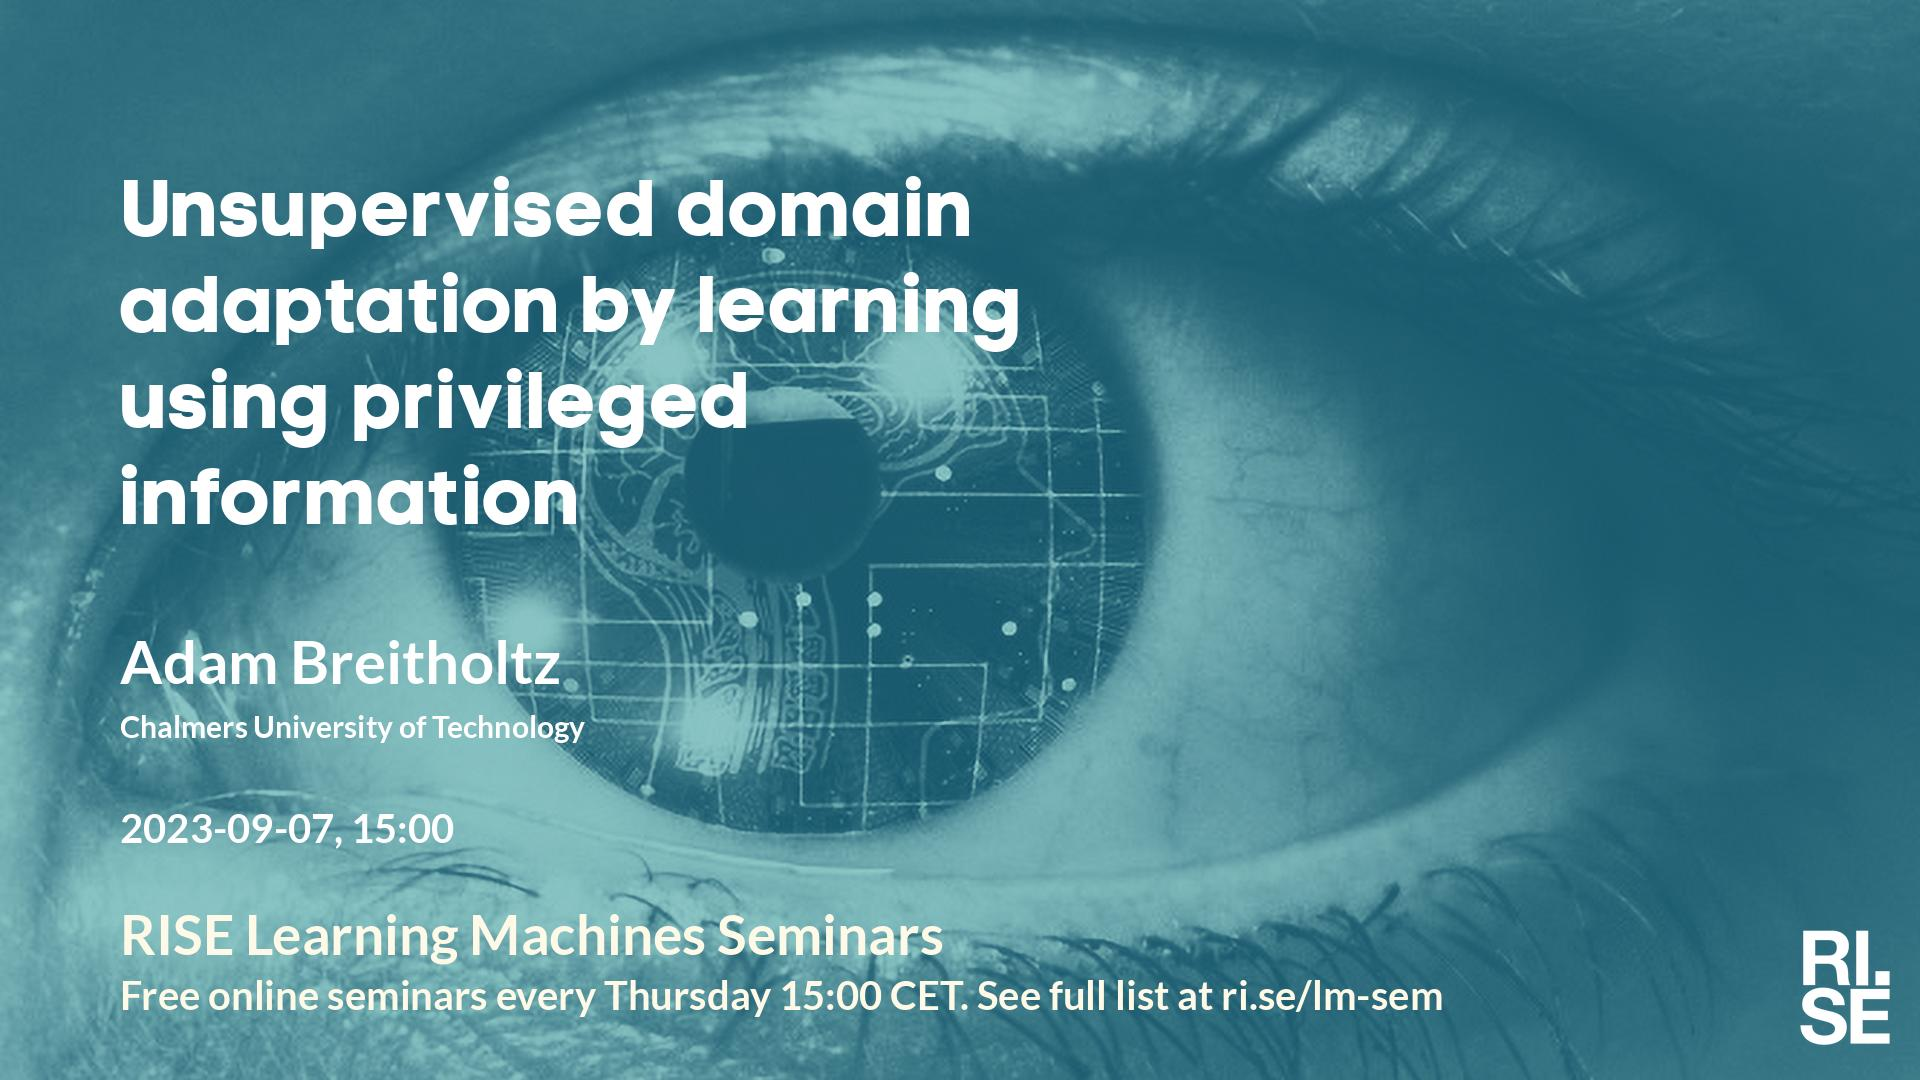
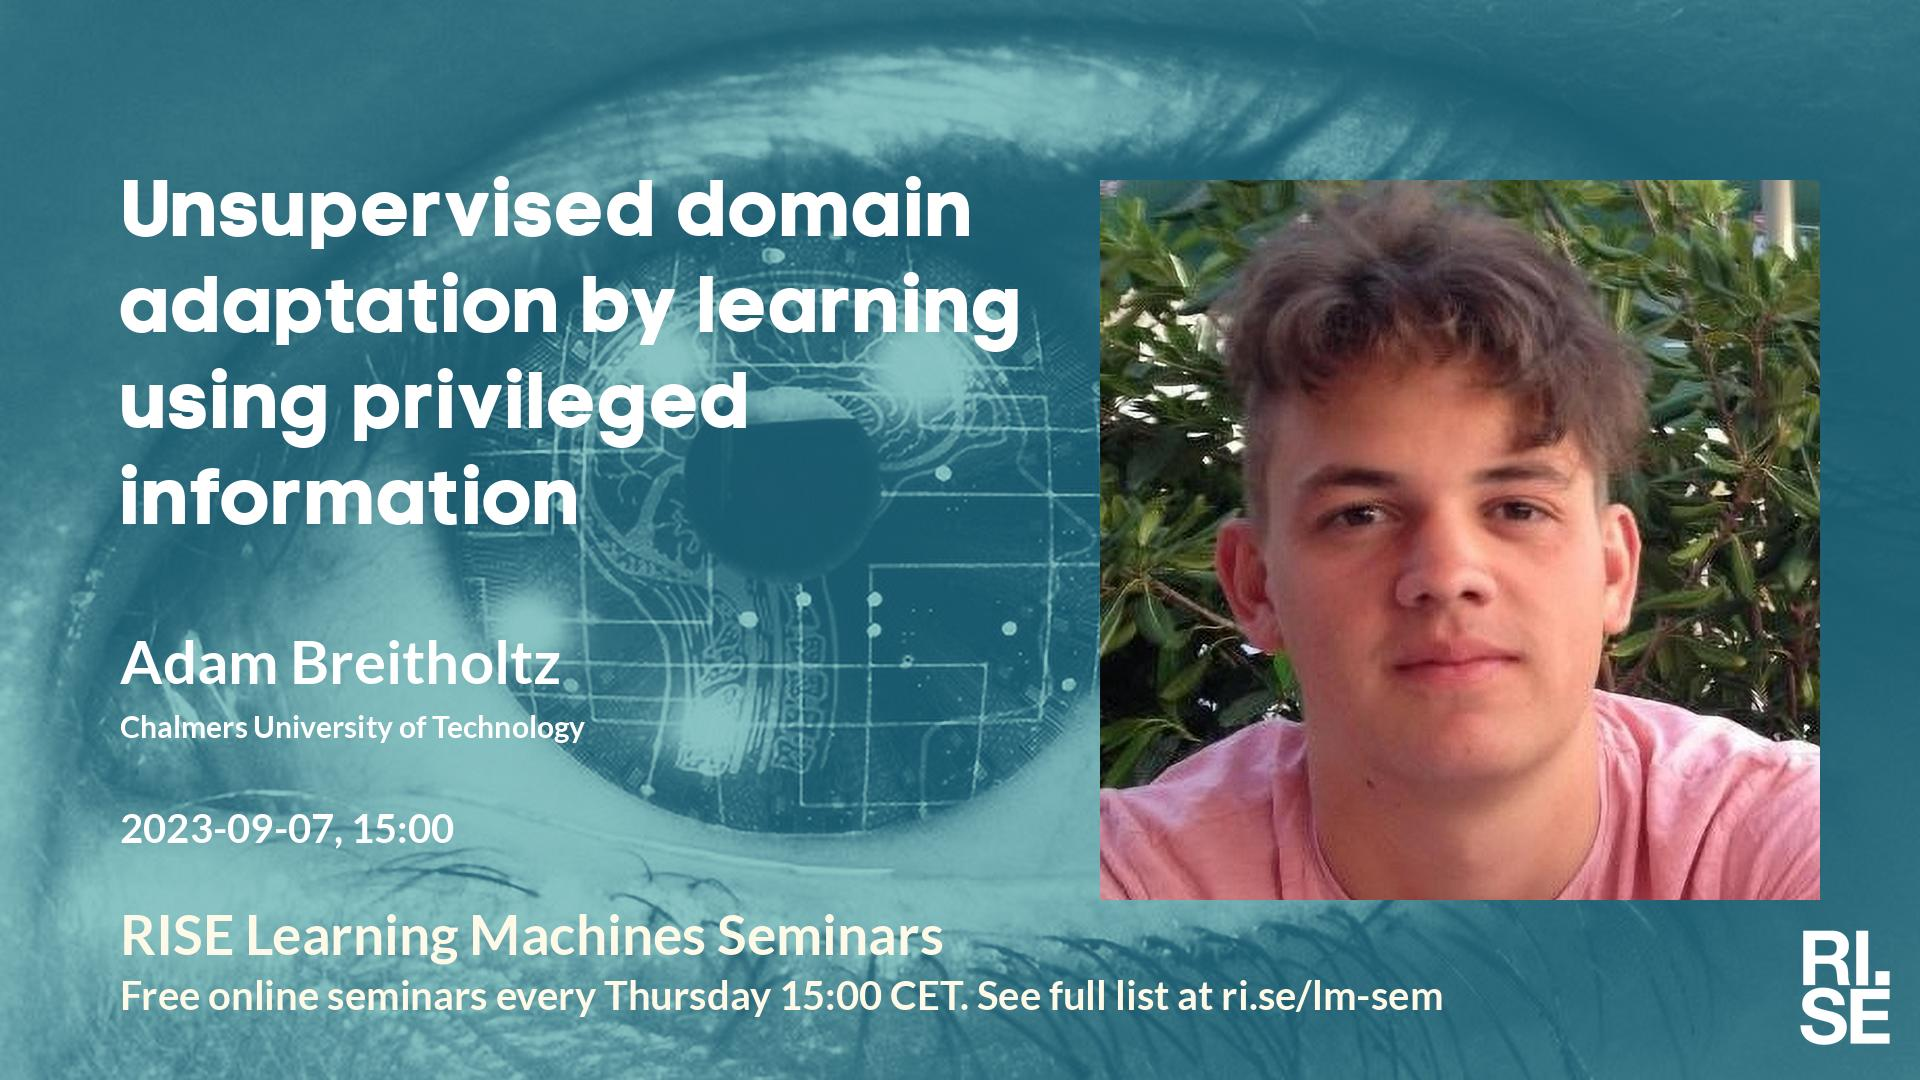
Updated plan on web site.

Changed region(s): [[0.5625, 0.1528, 0.9688, 0.8556]]

diff --git a/lm/index.md b/lm/index.md
@@ -5,11 +5,11 @@ metatags: "<meta name=\"robots\" content=\"noindex,nofollow\" />"
 <style type="text/css" scoped>
 td, th {border: 1px solid #ccc; padding: 0.6em;}
 table {border-collapse: collapse;}
-</style># Learning Machines Plan 2023-09-22
+</style># Learning Machines Plan 2023-09-23
 
 | date | speaker                                   | photo | shareable | meeting backdrop | youtube thumbnail | <a title="Speaker, Title, Abstract, Bio, Photo. Strikethrough means we don't have it yet.">comment</a>        |
 | ---- | ----------------------------------------- | ----- | ----- | ----- | ----- | -------------- |
-|  2023-09-07  |  [Adam Breitholtz, Chalmers University of Technology](2023-09-07.md)  |    |  [social media ](social-media-adam-breitholtz.jpg)  |  [meeting backdrop ](meeting-backdrop-adam-breitholtz.jpg)  |  [youtube thumbnail ](youtube-thumbnail-adam-breitholtz.jpg)  |  STAB~~P~~  |
+|  2023-09-07  |  [Adam Breitholtz, Chalmers University of Technology](2023-09-07.md)  |  [photo](photo-adam-breitholtz.jpg)  |  [social media ](social-media-adam-breitholtz.jpg)  |  [meeting backdrop ](meeting-backdrop-adam-breitholtz.jpg)  |  [youtube thumbnail ](youtube-thumbnail-adam-breitholtz.jpg)  |  STABP  |
 |  2023-09-14  |  [Virginia Smith, CMU](2023-09-14.md)  |  [photo](photo-virginia-smith.jpg)  |  [social media ](social-media-virginia-smith.jpg)  |  [meeting backdrop ](meeting-backdrop-virginia-smith.jpg)  |  [youtube thumbnail ](youtube-thumbnail-virginia-smith.jpg)  |  STABP  |
 |  2023-09-21  |  [Nico Lang, University of Copenhagen](2023-09-21.md)  |  [photo](photo-nico-lang.jpg)  |  [social media ](social-media-nico-lang.jpg)  |  [meeting backdrop ](meeting-backdrop-nico-lang.jpg)  |  [youtube thumbnail ](youtube-thumbnail-nico-lang.jpg)  |  STABP  |
 |  2023-09-28  |  [Johan Östman, AI Sweden](2023-09-28.md)  |  [photo](photo-johan-ostman.jpg)  |  [social media ](social-media-johan-ostman.jpg)  |  [meeting backdrop ](meeting-backdrop-johan-ostman.jpg)  |  [youtube thumbnail ](youtube-thumbnail-johan-ostman.jpg)  |  STABP  |
